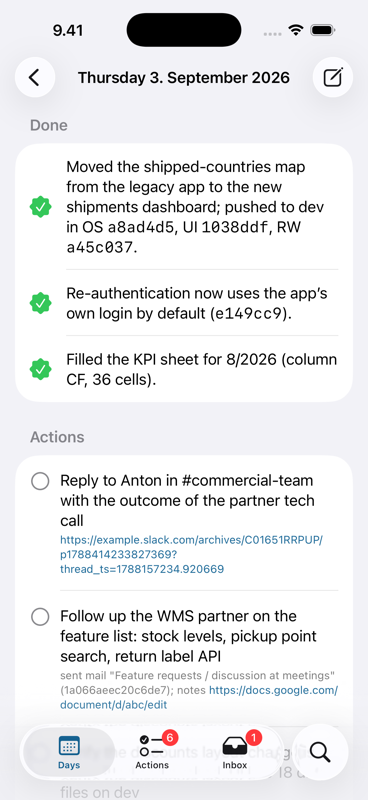
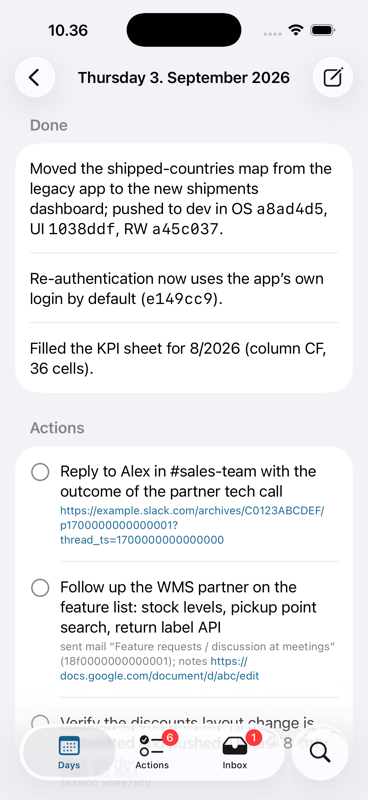
Scrub fixtures and screenshots for publication
Claude-Session: https://claude.ai/code/session_01BJAWtsGbDB8G3ZhujaFZrB

diff --git a/ios/Packages/JournalKit/Tests/JournalKitTests/JournalKitTests.swift b/ios/Packages/JournalKit/Tests/JournalKitTests/JournalKitTests.swift
@@ -27,7 +27,7 @@ func fixture(_ name: String) throws -> String {
         #expect(e.checkboxes.count == 7, "the stray checkbox in Details is parsed but is not an action")
         #expect(e.openActionCount == 6)
         let first = e.actions[0]
-        #expect(first.text == "Reply to Anton in #commercial-team with the outcome of the partner tech call")
+        #expect(first.text == "Reply to Alex in #sales-team with the outcome of the partner tech call")
         #expect(first.referenceKind == .source)
         #expect(first.urls.count == 1)
         #expect(first.urls[0].host == "example.slack.com")
@@ -50,8 +50,8 @@ func fixture(_ name: String) throws -> String {
     }
 
     @Test func identityKeyNormalisation() {
-        #expect(CheckboxLine.identityKey(for: "  Reply to  Anton.  (from 2026-09-03) ") == "reply to anton")
-        #expect(CheckboxLine.identityKey(for: "Reply to Anton") == CheckboxLine.identityKey(for: "reply to anton;"))
+        #expect(CheckboxLine.identityKey(for: "  Reply to  Alex.  (from 2026-09-03) ") == "reply to alex")
+        #expect(CheckboxLine.identityKey(for: "Reply to Alex") == CheckboxLine.identityKey(for: "reply to alex;"))
     }
 
     @Test func toleratesOddContent() {
@@ -121,10 +121,10 @@ func fixture(_ name: String) throws -> String {
         let all = OpenActionsAggregator.aggregate([d3, d4])
         // 6 actions on day 3, day 4 adds 1 new and repeats 5 → 7 distinct keys
         #expect(all.count == 7)
-        let anton = try #require(all.first { $0.key.hasPrefix("reply to anton") })
-        #expect(anton.isOpen == false)
-        #expect(anton.latest.date == "2026-09-04")
-        #expect(anton.seenOn == ["2026-09-03", "2026-09-04"])
+        let alex = try #require(all.first { $0.key.hasPrefix("reply to alex") })
+        #expect(alex.isOpen == false)
+        #expect(alex.latest.date == "2026-09-04")
+        #expect(alex.seenOn == ["2026-09-03", "2026-09-04"])
         let open = OpenActionsAggregator.openActions([d3, d4])
         #expect(open.count == 6)
         #expect(open.allSatisfy { $0.latest.date == "2026-09-04" || $0.key.hasPrefix("verify the discounts") })
@@ -139,14 +139,14 @@ func fixture(_ name: String) throws -> String {
         let d4 = JournalParser.parse(try fixture("2026-09-04"), fileName: "2026-09-04.md")
         let idx = SearchIndex(entries: [d3, d4])
         #expect(idx.search("").isEmpty)
-        let anton = idx.search("ANTON")
-        #expect(anton.count == 5)
-        #expect(anton[0].date == "2026-09-04")
-        #expect(idx.search("anton outcome").count == 3)
-        #expect(idx.search("anton nothing-here").isEmpty)
+        let alex = idx.search("ALEX")
+        #expect(alex.count == 5)
+        #expect(alex[0].date == "2026-09-04")
+        #expect(idx.search("alex outcome").count == 3)
+        #expect(idx.search("alex nothing-here").isEmpty)
         #expect(idx.search("pickup").allSatisfy { $0.lineText.contains("pickup") })
-        #expect(idx.search("elay").count == 1)
-        #expect(idx.search("Élay").count == 1)
+        #expect(idx.search("dana").count == 1)
+        #expect(idx.search("Dána").count == 1)
     }
 }
 
@@ -156,13 +156,13 @@ func fixture(_ name: String) throws -> String {
         var comps = DateComponents(); comps.year = 2026; comps.month = 9; comps.day = 4; comps.hour = 9; comps.minute = 12; comps.second = 33
         var cal = Calendar(identifier: .gregorian); cal.timeZone = tz
         let now = cal.date(from: comps)!
-        let (name, contents) = InboxWriter.makeCapture(kind: .action, body: "  Call Stian about the release\n", device: "iPhone", now: now, timeZone: tz, random: { 0xbeef })
+        let (name, contents) = InboxWriter.makeCapture(kind: .action, body: "  Call Noor about the release\n", device: "iPhone", now: now, timeZone: tz, random: { 0xbeef })
         #expect(name == "2026-09-04-091233-beef.md")
-        #expect(contents == "kind: action\ncreated: 2026-09-04T09:12:33+03:00\ndevice: iPhone\n\nCall Stian about the release\n")
+        #expect(contents == "kind: action\ncreated: 2026-09-04T09:12:33+03:00\ndevice: iPhone\n\nCall Noor about the release\n")
         let parsed = InboxParser.parse(fileName: name, contents: contents)
         #expect(parsed.kind == .action)
         #expect(parsed.device == "iPhone")
-        #expect(parsed.body == "Call Stian about the release")
+        #expect(parsed.body == "Call Noor about the release")
         #expect(parsed.created == now)
     }
 

diff --git a/ios/Journal/Views/SettingsView.swift b/ios/Journal/Views/SettingsView.swift
@@ -24,7 +24,7 @@ struct SettingsView: View {
                 Section("About") {
                     Text("Journal reads the Markdown files written by the daily-journal Claude Code plugin. Ticking a box edits the file in place; captures land in the inbox folder for the next run.")
                         .font(.footnote).foregroundStyle(.secondary)
-                    Link("Source code and format spec", destination: URL(string: "https://github.com/pekkay/daily-journal")!)
+                    Link("Source code and format spec", destination: URL(string: "https://github.com/pylenius/daily-journal")!)
                     LabeledContent("Version", value: Bundle.main.infoDictionary?["CFBundleShortVersionString"] as? String ?? "")
                 }
             }

diff --git a/ios/Packages/JournalKit/Tests/JournalKitTests/Fixtures/2026-09-03.md b/ios/Packages/JournalKit/Tests/JournalKitTests/Fixtures/2026-09-03.md
@@ -6,12 +6,12 @@
 - Filled the KPI sheet for 8/2026 (column CF, 36 cells).
 
 ## Actions
-- [ ] Reply to Anton in #commercial-team with the outcome of the partner tech call — source: https://example.slack.com/archives/C01651RRPUP/p1788414233827369?thread_ts=1788157234.920669
-- [ ] Follow up the WMS partner on the feature list: stock levels, pickup point search, return label API — source: sent mail "Feature requests / discussion at meetings" (1a066aeec20c6de7); notes https://docs.google.com/document/d/abc/edit
+- [ ] Reply to Alex in #sales-team with the outcome of the partner tech call — source: https://example.slack.com/archives/C0123ABCDEF/p1700000000000001?thread_ts=1700000000000000
+- [ ] Follow up the WMS partner on the feature list: stock levels, pickup point search, return label API — source: sent mail "Feature requests / discussion at meetings" (18f0000000000001); notes https://docs.google.com/document/d/abc/edit
 - [ ] Verify the discounts layout change is committed and pushed; UI has 18 dirty files on dev — source: session 9aee79f9
 - [ ] ECom: 1 unpushed commit on dev — source: `git log @{u}..HEAD` in ECom
 - [ ] Redo the return tracking-number check; the session died on API 529 — source: session 88c03c48
-- [ ] Watch: Tero asked the partner for the UK return carrier options + pricing overview — source: "Re: Return option UK" (1a0664cf30d55ded)
+- [ ] Watch: Chris asked the partner for the UK return carrier options + pricing overview — source: "Re: Return option UK" (18f0000000000002)
 
 ## Carried over
 _(first journal entry, nothing to carry over)_
@@ -19,7 +19,7 @@ _(first journal entry, nothing to carry over)_
 ## Details
 
 ### Meetings
-- **09:30 Planning team checkup** (Timo, Paul, Miia, Anton). Settlement target agreed. Notes: https://docs.google.com/document/d/def/edit
+- **09:30 Planning team checkup** (Jamie, Sam, Robin, Alex). Settlement target agreed. Notes: https://docs.google.com/document/d/def/edit
 - **12:00 Partner call** — followed up by mail.
 
 ### Code & Claude Code sessions
@@ -30,7 +30,7 @@ _(first journal entry, nothing to carry over)_
 - Sent: "Feature requests / discussion at meetings" 12:52.
 
 ### Slack
-- **#commercial-team**: Anton asked about the tech call; I replied "Later today". Still open.
+- **#sales-team**: Alex asked about the tech call; I replied "Later today". Still open.
 
 ### Sources & gaps
 - Collector ran clean.

diff --git a/ios/Packages/JournalKit/Tests/JournalKitTests/Fixtures/2026-09-04.md b/ios/Packages/JournalKit/Tests/JournalKitTests/Fixtures/2026-09-04.md
@@ -1,18 +1,18 @@
 # Journal — 2026-09-04 (Friday)
 
 ## Done
-- Replied to Anton with the call outcome.
+- Replied to Alex with the call outcome.
 
 ## Actions
-- [ ] Book the follow-up call with the WMS partner for next week — source: mail from Elay (1a07aa)
+- [ ] Book the follow-up call with the WMS partner for next week — source: mail from Dana (1a07aa)
 
 ## Carried over
-- [x] Reply to Anton in #commercial-team with the outcome of the partner tech call (from 2026-09-03) — done: replied in thread 09:10
+- [x] Reply to Alex in #sales-team with the outcome of the partner tech call (from 2026-09-03) — done: replied in thread 09:10
 - [ ] Follow up the WMS partner on the feature list: stock levels, pickup point search, return label API (from 2026-09-03)
 - [ ] ECom: 1 unpushed commit on dev (from 2026-09-03)
     still waiting for the build to pass
 - [ ] Redo the return tracking-number check; the session died on API 529 (from 2026-09-03)
-- [ ] Watch: Tero asked the partner for the UK return carrier options + pricing overview (from 2026-09-03)
+- [ ] Watch: Chris asked the partner for the UK return carrier options + pricing overview (from 2026-09-03)
 
 ## Details
 
